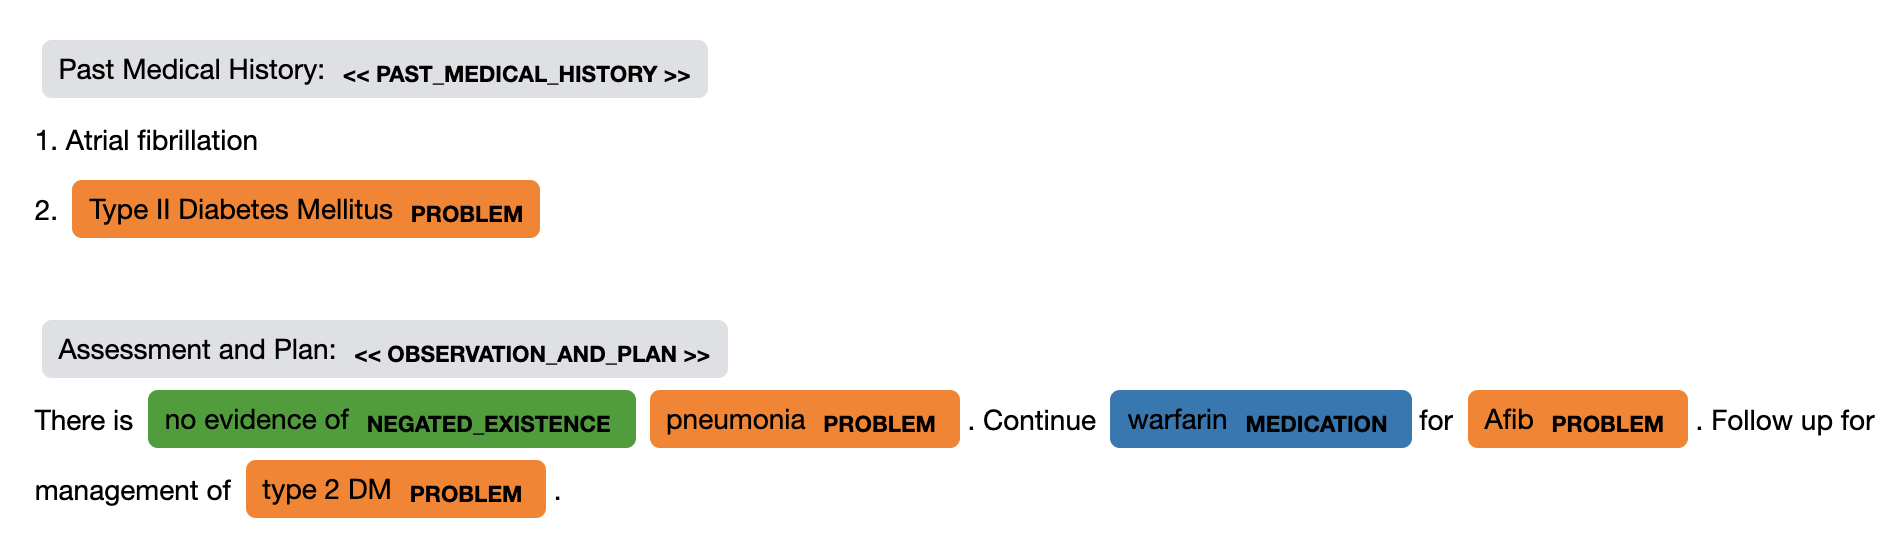
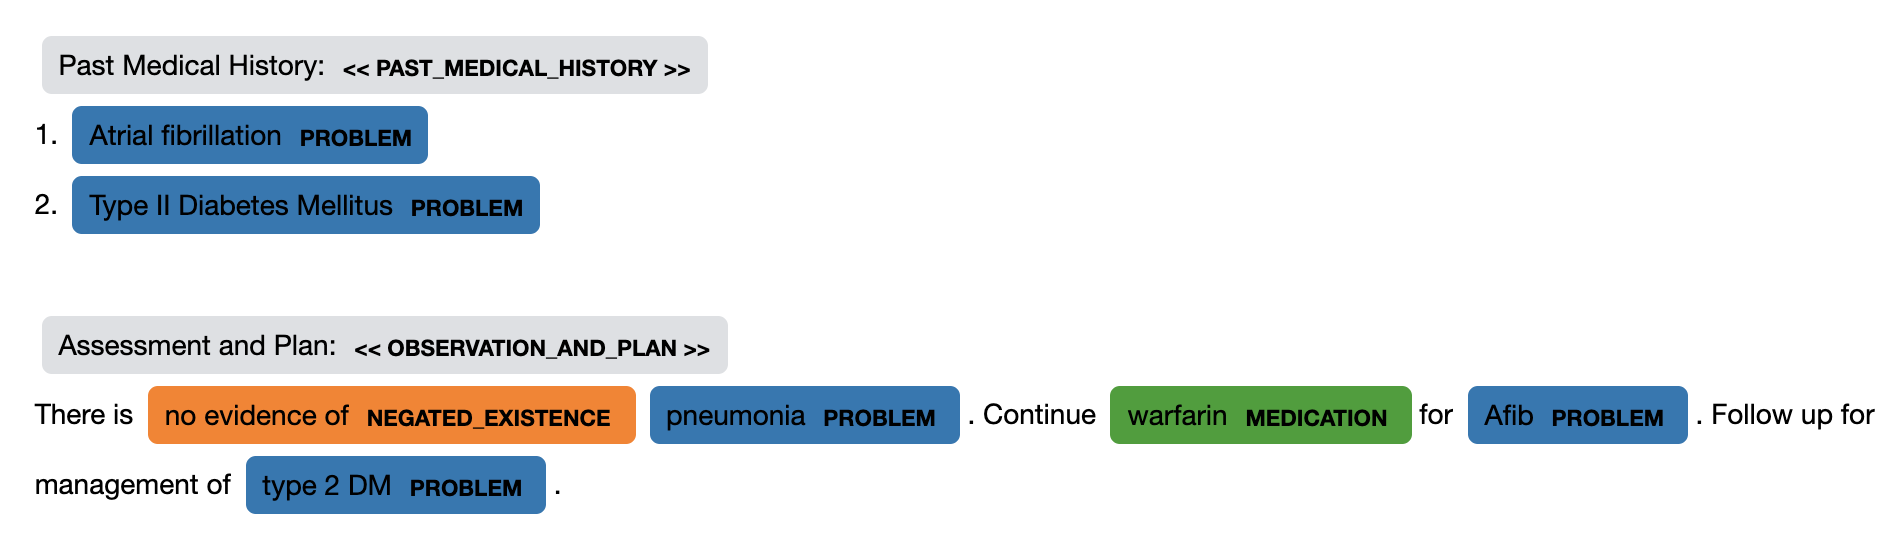
fix readme example

Changed region(s): [[0.0, 0.7191, 0.9947, 0.9888], [0.0, 0.0599, 0.373, 0.4494], [0.0311, 0.6292, 0.373, 0.6891]]

diff --git a/medspacy/util.py b/medspacy/util.py
@@ -31,7 +31,7 @@ def load(model="default", disable=None):
         nlp.add_pipe(target_matcher)
 
     if "sectionizer" not in disable:
-        from .sectionizer import Sectionizer
+        from .section_detection import Sectionizer
         sectionizer = Sectionizer(nlp)
         nlp.add_pipe(sectionizer)
 
@@ -42,7 +42,7 @@ def load(model="default", disable=None):
 
     if "postprocessor" not in disable:
         from .postprocess import Postprocessor, PostprocessingRule, PostprocessingPattern
-        postprocessor = Postprocessor(debug=True)
+        postprocessor = Postprocessor(debug=False)
         nlp.add_pipe(postprocessor)
 
     return nlp

diff --git a/README.md b/README.md
@@ -69,8 +69,8 @@ There is no evidence of pneumonia. Continue warfarin for Afib. Follow up for man
 # Add rules for target concept extraction
 target_matcher = nlp.get_pipe("target_matcher")
 target_rules = [
-    TargetRule("atrial fibriliation", "PROBLEM"),
-    TargetRule("atrial fibrlllation", "PROBLEM", pattern=[{"LOWER": "afib"}]),
+    TargetRule("atrial fibrillation", "PROBLEM"),
+    TargetRule("atrial fibrillation", "PROBLEM", pattern=[{"LOWER": "afib"}]),
     TargetRule("pneumonia", "PROBLEM"),
     TargetRule("Type II Diabetes Mellitus", "PROBLEM", 
               pattern=[
